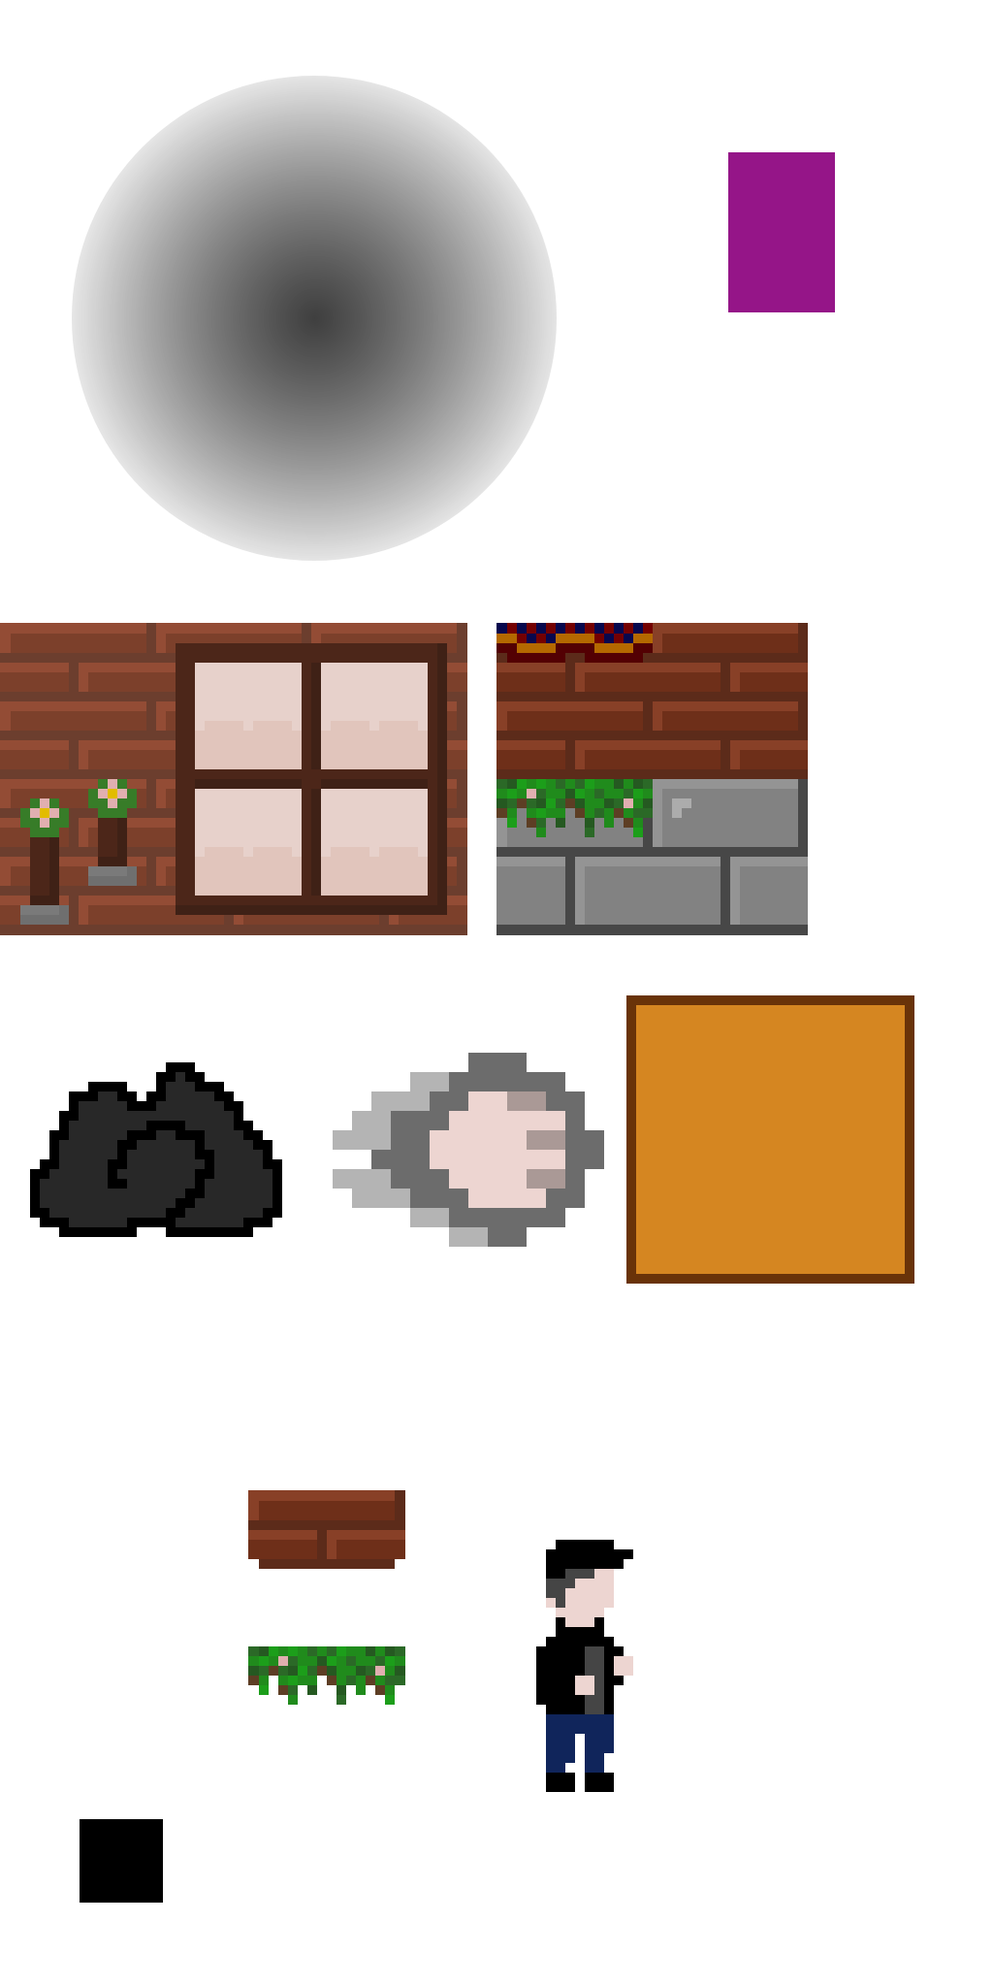
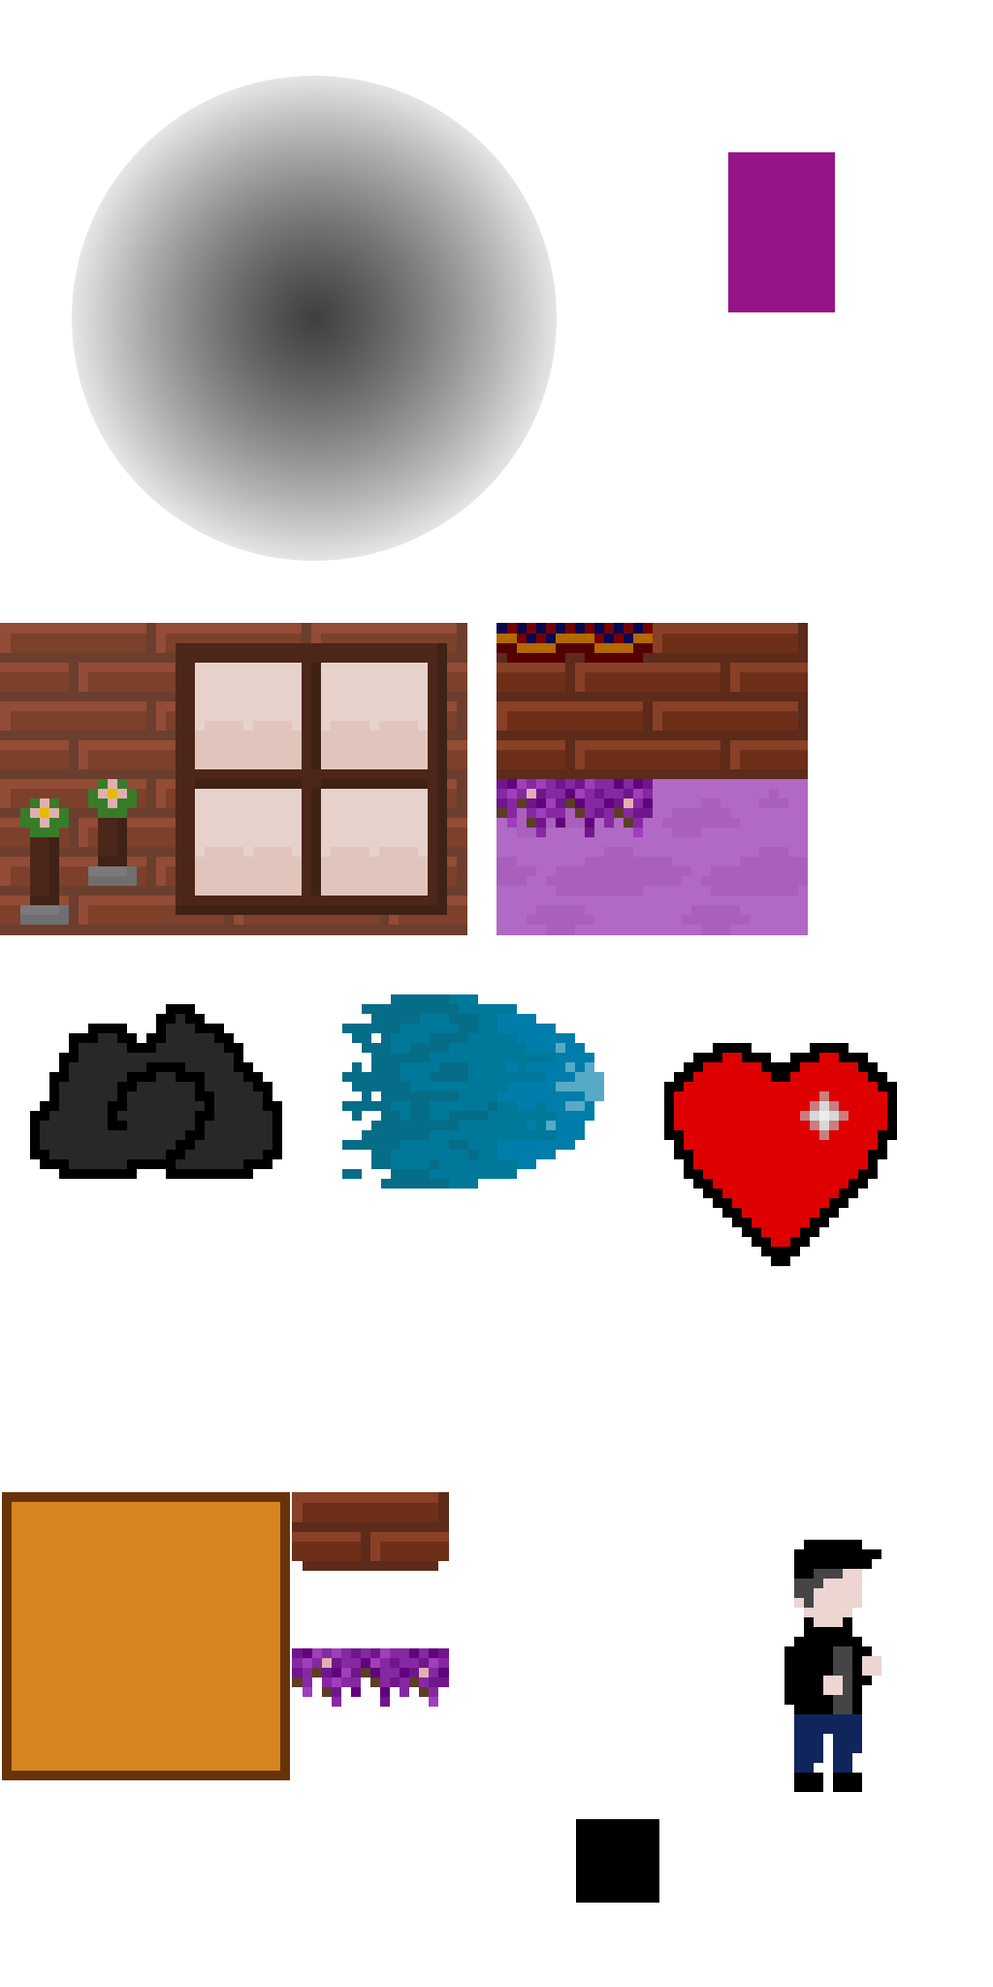
beta

diff --git a/scripts/c3runtime.js b/scripts/c3runtime.js
@@ -4317,6 +4317,42 @@ index);return ret?ret.x:0},TagY(tag,index){const ret=this._GetTagPosition(tag,in
 }
 
 {
+'use strict';{const C3=self.C3;C3.Plugins.TiledBg=class TiledBgPlugin extends C3.SDKPluginBase{constructor(opts){super(opts)}Release(){super.Release()}}}
+{const C3=self.C3;function WrapModeToStr(wrapMode){switch(wrapMode){case 0:return"clamp-to-edge";case 1:return"repeat";case 2:return"mirror-repeat"}return"repeat"}C3.Plugins.TiledBg.Type=class TiledBgType extends C3.SDKTypeBase{constructor(objectClass,exportData){super(objectClass);this._wrapX="repeat";this._wrapY="repeat";if(exportData){this._wrapX=WrapModeToStr(exportData[0]);this._wrapY=WrapModeToStr(exportData[1])}}Release(){super.Release()}OnCreate(){this.GetImageInfo().LoadAsset(this._runtime)}LoadTextures(renderer){return this.GetImageInfo().LoadStaticTexture(renderer,
+{sampling:this._runtime.GetSampling(),wrapX:this._wrapX,wrapY:this._wrapY})}ReleaseTextures(){this.GetImageInfo().ReleaseTexture()}}}
+{const C3=self.C3;const C3X=self.C3X;const INITIALLY_VISIBLE=0;const ORIGIN=1;const IMAGE_OFFSET_X=4;const IMAGE_OFFSET_Y=5;const IMAGE_SCALE_X=6;const IMAGE_SCALE_Y=7;const IMAGE_ANGLE=8;const ENABLE_TILE_RANDOMIZATION=9;const TILE_XRANDOM=10;const TILE_YRANDOM=11;const TILE_ANGLERANDOM=12;const TILE_BLENDMARGINX=13;const TILE_BLENDMARGINY=14;const tempRect=C3.New(C3.Rect);const tempQuad=C3.New(C3.Quad);const rcTex=C3.New(C3.Rect);const qTex=C3.New(C3.Quad);C3.Plugins.TiledBg.Instance=class TiledBgInstance extends C3.SDKWorldInstanceBase{constructor(inst,
+properties){super(inst);this._imageOffsetX=0;this._imageOffsetY=0;this._imageScaleX=1;this._imageScaleY=1;this._imageAngle=0;this._enableTileRandomization=false;this._tileXRandom=0;this._tileYRandom=0;this._tileAngleRandom=0;this._tileBlendMarginX=0;this._tileBlendMarginY=0;this._ownImageInfo=null;if(properties){this.GetWorldInfo().SetVisible(!!properties[INITIALLY_VISIBLE]);this._imageOffsetX=properties[IMAGE_OFFSET_X];this._imageOffsetY=properties[IMAGE_OFFSET_Y];this._imageScaleX=properties[IMAGE_SCALE_X];
+this._imageScaleY=properties[IMAGE_SCALE_Y];this._imageAngle=C3.toRadians(properties[IMAGE_ANGLE]);this._enableTileRandomization=!!properties[ENABLE_TILE_RANDOMIZATION];this._tileXRandom=properties[TILE_XRANDOM];this._tileYRandom=properties[TILE_YRANDOM];this._tileAngleRandom=properties[TILE_ANGLERANDOM];this._tileBlendMarginX=properties[TILE_BLENDMARGINX];this._tileBlendMarginY=properties[TILE_BLENDMARGINY]}}Release(){this._ReleaseOwnImage();super.Release()}_ReleaseOwnImage(){if(this._ownImageInfo){this._ownImageInfo.Release();
+this._ownImageInfo=null}}CalculateTextureCoordsFor3DFace(areaWidth,areaHeight,outQuad){const imageInfo=this.GetCurrentImageInfo();const imageWidth=imageInfo.GetWidth();const imageHeight=imageInfo.GetHeight();const imageOffsetX=this._imageOffsetX/imageWidth;const imageOffsetY=this._imageOffsetY/imageHeight;const imageAngle=this._imageAngle;rcTex.set(0,0,areaWidth/(imageWidth*this._imageScaleX),areaHeight/(imageHeight*this._imageScaleY));rcTex.offset(-imageOffsetX,-imageOffsetY);if(imageAngle===0)outQuad.setFromRect(rcTex);
+else outQuad.setFromRotatedRect(rcTex,-imageAngle)}SetTilingShaderProgram(renderer){if(this._enableTileRandomization){const imageInfo=this.GetCurrentImageInfo();renderer.SetTileRandomizationMode();renderer.SetTileRandomizationInfo(imageInfo.GetWidth()*this._imageScaleX,imageInfo.GetHeight()*this._imageScaleY,this._tileXRandom,this._tileYRandom,this._tileAngleRandom,this._tileBlendMarginX,this._tileBlendMarginY)}else renderer.SetTextureFillMode()}Draw(renderer){const imageInfo=this.GetCurrentImageInfo();
+const texture=imageInfo.GetTexture();if(texture===null)return;this.SetTilingShaderProgram(renderer);renderer.SetTexture(texture);const imageWidth=imageInfo.GetWidth();const imageHeight=imageInfo.GetHeight();const imageOffsetX=this._imageOffsetX/imageWidth;const imageOffsetY=this._imageOffsetY/imageHeight;const wi=this.GetWorldInfo();rcTex.set(0,0,wi.GetWidth()/(imageWidth*this._imageScaleX),wi.GetHeight()/(imageHeight*this._imageScaleY));rcTex.offset(-imageOffsetX,-imageOffsetY);if(wi.HasMesh())this._DrawMesh(wi,
+renderer);else this._DrawStandard(wi,renderer)}_DrawStandard(wi,renderer){let quad=wi.GetBoundingQuad();if(this._runtime.IsPixelRoundingEnabled())quad=wi.PixelRoundQuad(quad);if(this._imageAngle===0)renderer.Quad3(quad,rcTex);else{qTex.setFromRotatedRect(rcTex,-this._imageAngle);renderer.Quad4(quad,qTex)}}_DrawMesh(wi,renderer){const transformedMesh=wi.GetTransformedMesh();if(wi.IsMeshChanged()){wi.CalculateBbox(tempRect,tempQuad,false);let quad=tempQuad;if(this._runtime.IsPixelRoundingEnabled())quad=
+wi.PixelRoundQuad(quad);let texCoords=rcTex;if(this._imageAngle!==0){qTex.setFromRotatedRect(rcTex,-this._imageAngle);texCoords=qTex}transformedMesh.CalculateTransformedMesh(wi.GetSourceMesh(),quad,texCoords);wi.SetMeshChanged(false)}transformedMesh.Draw(renderer)}GetCurrentImageInfo(){return this._ownImageInfo||this._objectClass.GetImageInfo()}IsOriginalSizeKnown(){return true}GetTexture(){return this.GetCurrentImageInfo().GetTexture()}_SetMeshChanged(){this.GetWorldInfo().SetMeshChanged(true)}_SetImageOffsetX(x){if(this._imageOffsetX===
+x)return;this._imageOffsetX=x;this._runtime.UpdateRender();this._SetMeshChanged()}_GetImageOffsetX(){return this._imageOffsetX}_SetImageOffsetY(y){if(this._imageOffsetY===y)return;this._imageOffsetY=y;this._runtime.UpdateRender();this._SetMeshChanged()}_GetImageOffsetY(){return this._imageOffsetY}_SetImageScaleX(x){if(this._imageScaleX===x)return;this._imageScaleX=x;this._runtime.UpdateRender();this._SetMeshChanged()}_GetImageScaleX(){return this._imageScaleX}_SetImageScaleY(y){if(this._imageScaleY===
+y)return;this._imageScaleY=y;this._runtime.UpdateRender();this._SetMeshChanged()}_GetImageScaleY(){return this._imageScaleY}_SetImageAngle(a){if(this._imageAngle===a)return;this._imageAngle=a;this._runtime.UpdateRender();this._SetMeshChanged()}_GetImageAngle(){return this._imageAngle}_SetTileRandomizationEnabled(e){e=!!e;if(this._enableTileRandomization===e)return;this._enableTileRandomization=e;this._runtime.UpdateRender()}_IsTileRandomizationEnabled(){return this._enableTileRandomization}_SetTileXRandom(x){if(this._tileXRandom===
+x)return;this._tileXRandom=x;if(this._IsTileRandomizationEnabled())this._runtime.UpdateRender()}_GetTileXRandom(){return this._tileXRandom}_SetTileYRandom(y){if(this._tileYRandom===y)return;this._tileYRandom=y;if(this._IsTileRandomizationEnabled())this._runtime.UpdateRender()}_GetTileYRandom(){return this._tileYRandom}_SetTileAngleRandom(a){if(this._tileAngleRandom===a)return;this._tileAngleRandom=a;if(this._IsTileRandomizationEnabled())this._runtime.UpdateRender()}_GetTileAngleRandom(){return this._tileAngleRandom}_SetTileBlendMarginX(x){if(this._tileBlendMarginX===
+x)return;this._tileBlendMarginX=x;if(this._IsTileRandomizationEnabled())this._runtime.UpdateRender()}_GetTileBlendMarginX(){return this._tileBlendMarginX}_SetTileBlendMarginY(y){if(this._tileBlendMarginY===y)return;this._tileBlendMarginY=y;if(this._IsTileRandomizationEnabled())this._runtime.UpdateRender()}_GetTileBlendMarginY(){return this._tileBlendMarginY}GetDebuggerProperties(){const propsPrefix="plugins.tiledbg.properties";return[{title:propsPrefix+".image-transform.name",properties:[{name:propsPrefix+
+".image-offset-x.name",value:this._GetImageOffsetX(),onedit:v=>this._SetImageOffsetX(v)},{name:propsPrefix+".image-offset-y.name",value:this._GetImageOffsetY(),onedit:v=>this._SetImageOffsetY(v)},{name:propsPrefix+".image-scale-x.name",value:this._GetImageScaleX()*100,onedit:v=>this._SetImageScaleX(v/100)},{name:propsPrefix+".image-scale-y.name",value:this._GetImageScaleY()*100,onedit:v=>this._SetImageScaleY(v/100)},{name:propsPrefix+".image-angle.name",value:C3.toDegrees(this._GetImageAngle()),onedit:v=>
+this._SetImageAngle(C3.toRadians(v))}]},{title:propsPrefix+".tile-randomization.name",properties:[{name:propsPrefix+".enable-tile-randomization.name",value:this._IsTileRandomizationEnabled(),onedit:v=>this._SetTileRandomizationEnabled(v)},{name:propsPrefix+".x-random.name",value:this._GetTileXRandom()*100,onedit:v=>this._SetTileXRandom(v/100)},{name:propsPrefix+".y-random.name",value:this._GetTileYRandom()*100,onedit:v=>this._SetTileYRandom(v/100)},{name:propsPrefix+".angle-random.name",value:this._GetTileAngleRandom()*
+100,onedit:v=>this._SetTileAngleRandom(v/100)},{name:propsPrefix+".blend-margin-x.name",value:this._GetTileBlendMarginX()*100,onedit:v=>this._SetTileBlendMarginX(v/100)},{name:propsPrefix+".blend-margin-y.name",value:this._GetTileBlendMarginY()*100,onedit:v=>this._SetTileBlendMarginY(v/100)}]}]}GetPropertyValueByIndex(index){switch(index){case IMAGE_OFFSET_X:return this._GetImageOffsetX();case IMAGE_OFFSET_Y:return this._GetImageOffsetY();case IMAGE_SCALE_X:return this._GetImageScaleX();case IMAGE_SCALE_Y:return this._GetImageScaleY();
+case IMAGE_ANGLE:return this._GetImageAngle();case ENABLE_TILE_RANDOMIZATION:return this._IsTileRandomizationEnabled();case TILE_XRANDOM:return this._GetTileXRandom();case TILE_YRANDOM:return this._GetTileYRandom();case TILE_ANGLERANDOM:return this._GetTileAngleRandom();case TILE_BLENDMARGINX:return this._GetTileBlendMarginX();case TILE_BLENDMARGINY:return this._GetTileBlendMarginY()}}SetPropertyValueByIndex(index,value){switch(index){case IMAGE_OFFSET_X:this._SetImageOffsetX(value);break;case IMAGE_OFFSET_Y:this._SetImageOffsetY(value);
+break;case IMAGE_SCALE_X:this._SetImageScaleX(value);break;case IMAGE_SCALE_Y:this._SetImageScaleY(value);break;case IMAGE_ANGLE:this._SetImageAngle(value);break;case ENABLE_TILE_RANDOMIZATION:this._SetTileRandomizationEnabled(!!value);break;case TILE_XRANDOM:this._SetTileXRandom(value);break;case TILE_YRANDOM:this._SetTileYRandom(value);break;case TILE_ANGLERANDOM:this._SetTileAngleRandom(value);break;case TILE_BLENDMARGINX:this._SetTileBlendMarginX(value);break;case TILE_BLENDMARGINY:this._SetTileBlendMarginY(value);
+break}}GetScriptInterfaceClass(){return self.ITiledBackgroundInstance}};const map=new WeakMap;self.ITiledBackgroundInstance=class ITiledBackgroundInstance extends self.IWorldInstance{constructor(){super();map.set(this,self.IInstance._GetInitInst().GetSdkInstance())}set imageOffsetX(x){C3X.RequireFiniteNumber(x);map.get(this)._SetImageOffsetX(x)}get imageOffsetX(){return map.get(this)._GetImageOffsetX()}set imageOffsetY(y){C3X.RequireFiniteNumber(y);map.get(this)._SetImageOffsetY(y)}get imageOffsetY(){return map.get(this)._GetImageOffsetY()}setImageOffset(x,
+y){C3X.RequireFiniteNumber(x);C3X.RequireFiniteNumber(y);const inst=map.get(this);inst._SetImageOffsetX(x);inst._SetImageOffsetY(y)}getImageOffset(){const inst=map.get(this);return[inst._GetImageOffsetX(),inst._GetImageOffsetY()]}set imageScaleX(x){C3X.RequireFiniteNumber(x);map.get(this)._SetImageScaleX(x)}get imageScaleX(){return map.get(this)._GetImageScaleX()}set imageScaleY(y){C3X.RequireFiniteNumber(y);map.get(this)._SetImageScaleY(y)}get imageScaleY(){return map.get(this)._GetImageScaleY()}setImageScale(x,
+y){C3X.RequireFiniteNumber(x);C3X.RequireFiniteNumber(y);const inst=map.get(this);inst._SetImageScaleX(x);inst._SetImageScaleY(y)}getImageScale(){const inst=map.get(this);return[inst._GetImageScaleX(),inst._GetImageScaleY()]}set imageAngle(a){C3X.RequireFiniteNumber(a);map.get(this)._SetImageAngle(a)}get imageAngle(){return map.get(this)._GetImageAngle()}set imageAngleDegrees(a){C3X.RequireFiniteNumber(a);map.get(this)._SetImageAngle(C3.toRadians(a))}get imageAngleDegrees(){return C3.toDegrees(map.get(this)._GetImageAngle())}get imageWidth(){return map.get(this).GetCurrentImageInfo().GetWidth()}get imageHeight(){return map.get(this).GetCurrentImageInfo().GetHeight()}getImageSize(){const imageInfo=
+map.get(this).GetCurrentImageInfo();return[imageInfo.GetWidth(),imageInfo.GetHeight()]}set enableTileRandomization(e){map.get(this)._SetTileRandomizationEnabled(!!e)}get enableTileRandomization(){return map.get(this)._IsTileRandomizationEnabled()}set tileXRandom(x){C3X.RequireFiniteNumber(x);map.get(this)._SetTileXRandom(x)}get tileXRandom(){return map.get(this)._GetTileXRandom()}set tileYRandom(y){C3X.RequireFiniteNumber(y);map.get(this)._SetTileYRandom(y)}get tileYRandom(){return map.get(this)._GetTileYRandom()}setTileRandom(x,
+y){C3X.RequireFiniteNumber(x);C3X.RequireFiniteNumber(y);const inst=map.get(this);inst._SetTileXRandom(x);inst._SetTileYRandom(y)}getTileRandom(){const inst=map.get(this);return[inst._GetTileXRandom(),inst._GetTileYRandom()]}set tileAngleRandom(a){C3X.RequireFiniteNumber(a);map.get(this)._SetTileAngleRandom(a)}get tileAngleRandom(){return map.get(this)._GetTileAngleRandom()}set tileBlendMarginX(x){C3X.RequireFiniteNumber(x);map.get(this)._SetTileBlendMarginX(x)}get tileBlendMarginX(){return map.get(this)._GetTileBlendMarginX()}set tileBlendMarginY(y){C3X.RequireFiniteNumber(y);
+map.get(this)._SetTileBlendMarginY(y)}get tileBlendMarginY(){return map.get(this)._GetTileBlendMarginY()}setTileBlendMargin(x,y){C3X.RequireFiniteNumber(x);C3X.RequireFiniteNumber(y);const inst=map.get(this);inst._SetTileBlendMarginX(x);inst._SetTileBlendMarginY(y)}getTileBlendMargin(){const inst=map.get(this);return[inst._GetTileBlendMarginX(),inst._GetTileBlendMarginY()]}async replaceImage(blob){C3X.RequireInstanceOf(blob,Blob);const sdkInst=map.get(this);const runtime=sdkInst.GetRuntime();const imageInfo=
+C3.New(C3.ImageInfo);imageInfo.LoadDynamicBlobAsset(runtime,blob);await imageInfo.LoadStaticTexture(runtime.GetRenderer(),{sampling:runtime.GetSampling(),wrapX:"repeat",wrapY:"repeat"});if(sdkInst.WasReleased()){imageInfo.Release();return}sdkInst._ReleaseOwnImage();sdkInst._ownImageInfo=imageInfo;runtime.UpdateRender()}}}{const C3=self.C3;C3.Plugins.TiledBg.Cnds={OnURLLoaded(){return true},OnURLFailed(){return true},IsTileRandomizationEnabled(){return this._IsTileRandomizationEnabled()}}}
+{const C3=self.C3;C3.Plugins.TiledBg.Acts={SetImageOffsetX(x){this._SetImageOffsetX(x)},SetImageOffsetY(y){this._SetImageOffsetY(y)},SetImageScaleX(x){this._SetImageScaleX(x/100)},SetImageScaleY(y){this._SetImageScaleY(y/100)},SetImageAngle(a){this._SetImageAngle(C3.toRadians(a))},SetTileRandomizationEnabled(e){this._SetTileRandomizationEnabled(e)},SetTilePosRandom(x,y){this._SetTileXRandom(x/100);this._SetTileYRandom(y/100)},SetTileAngleRandom(a){this._SetTileAngleRandom(a/100)},SetTileBlendMargin(x,
+y){this._SetTileBlendMarginX(x/100);this._SetTileBlendMarginY(y/100)},SetEffect(effect){this.GetWorldInfo().SetBlendMode(effect);this._runtime.UpdateRender()},async LoadURL(url,crossOrigin){if(this._ownImageInfo&&this._ownImageInfo.GetURL()===url)return;const runtime=this._runtime;const imageInfo=C3.New(C3.ImageInfo);try{await imageInfo.LoadDynamicAsset(runtime,url);if(!imageInfo.IsLoaded())throw new Error("image failed to load");if(this.WasReleased()){imageInfo.Release();return null}const texture=
+await imageInfo.LoadStaticTexture(runtime.GetRenderer(),{sampling:runtime.GetSampling(),wrapX:"repeat",wrapY:"repeat"});if(!texture)return}catch(err){console.error("Load image from URL failed: ",err);if(!this.WasReleased())this.Trigger(C3.Plugins.TiledBg.Cnds.OnURLFailed);return}if(this.WasReleased()){imageInfo.Release();return}this._ReleaseOwnImage();this._ownImageInfo=imageInfo;runtime.UpdateRender();await this.TriggerAsync(C3.Plugins.TiledBg.Cnds.OnURLLoaded)}}}
+{const C3=self.C3;C3.Plugins.TiledBg.Exps={ImageWidth(){return this.GetCurrentImageInfo().GetWidth()},ImageHeight(){return this.GetCurrentImageInfo().GetHeight()},ImageOffsetX(){return this._imageOffsetX},ImageOffsetY(){return this._imageOffsetY},ImageScaleX(){return this._imageScaleX*100},ImageScaleY(){return this._imageScaleY*100},ImageAngle(){return C3.toDegrees(this._imageAngle)},TileXRandom(){return this._GetTileXRandom()*100},TileYRandom(){return this._GetTileYRandom()*100},TileAngleRandom(){return this._GetTileAngleRandom()*
+100},TileBlendMarginX(){return this._GetTileBlendMarginX()*100},TileBlendMarginY(){return this._GetTileBlendMarginY()*100}}};
+
+}
+
+{
 'use strict';{const C3=self.C3;C3.Behaviors.solid=class SolidBehavior extends C3.SDKBehaviorBase{constructor(opts){super(opts)}Release(){super.Release()}}}{const C3=self.C3;C3.Behaviors.solid.Type=class SolidType extends C3.SDKBehaviorTypeBase{constructor(behaviorType){super(behaviorType)}Release(){super.Release()}OnCreate(){}}}
 {const C3=self.C3;const C3X=self.C3X;const IBehaviorInstance=self.IBehaviorInstance;const ENABLE=0;const TAGS=1;const EMPTY_SET=new Set;C3.Behaviors.solid.Instance=class SolidInstance extends C3.SDKBehaviorInstanceBase{constructor(behInst,properties){super(behInst);this.SetEnabled(true);if(properties){this.SetEnabled(properties[ENABLE]);this.SetTags(properties[TAGS])}}Release(){super.Release()}SetEnabled(e){this._inst._SetSolidEnabled(!!e)}IsEnabled(){return this._inst._IsSolidEnabled()}SetTags(tagList){const savedDataMap=
 this._inst.GetSavedDataMap();if(!tagList.trim()){savedDataMap.delete("solidTags");return}let solidTags=savedDataMap.get("solidTags");if(!solidTags){solidTags=new Set;savedDataMap.set("solidTags",solidTags)}solidTags.clear();for(const tag of tagList.split(" "))if(tag)solidTags.add(tag.toLowerCase())}GetTags(){return this._inst.GetSavedDataMap().get("solidTags")||EMPTY_SET}_GetTagsString(){return[...this.GetTags()].join(" ")}SaveToJson(){return{"e":this.IsEnabled()}}LoadFromJson(o){this.SetEnabled(o["e"])}GetPropertyValueByIndex(index){switch(index){case ENABLE:return this.IsEnabled()}}SetPropertyValueByIndex(index,
@@ -4546,6 +4582,7 @@ self.C3_GetObjectRefTable = function () {
 		C3.Behaviors.jumpthru,
 		C3.Plugins.NinePatch,
 		C3.Plugins.Text,
+		C3.Plugins.TiledBg,
 		C3.Plugins.System.Cnds.IsGroupActive,
 		C3.Plugins.Sprite.Cnds.OnCreated,
 		C3.Behaviors.MoveTo.Acts.MoveToPosition,
@@ -4554,6 +4591,7 @@ self.C3_GetObjectRefTable = function () {
 		C3.Behaviors.MoveTo.Cnds.OnArrived,
 		C3.Plugins.Sprite.Acts.SetAngle,
 		C3.Behaviors.Turret.Acts.AddTarget,
+		C3.Behaviors.Turret.Acts.SetRateOfFire,
 		C3.Behaviors.Turret.Cnds.OnShoot,
 		C3.Plugins.Sprite.Acts.Spawn,
 		C3.Behaviors.Bullet.Acts.SetSpeed,
@@ -4571,26 +4609,32 @@ self.C3_GetObjectRefTable = function () {
 		C3.Plugins.Mouse.Cnds.OnClick,
 		C3.Plugins.Sprite.Cnds.CompareInstanceVar,
 		C3.Plugins.Sprite.Acts.SetInstanceVar,
+		C3.Plugins.Sprite.Acts.SetAnimFrame,
 		C3.Plugins.System.Exps.min,
 		C3.Plugins.Sprite.Acts.Destroy,
 		C3.Plugins.Sprite.Acts.AddInstanceVar,
+		C3.Plugins.Sprite.Acts.SetVisible,
 		C3.Behaviors.MoveTo.Acts.Stop,
-		C3.Plugins.Sprite.Acts.SetAnimFrame,
 		C3.Plugins.Mouse.Exps.X,
 		C3.Plugins.Mouse.Exps.Y,
-		C3.Plugins.Sprite.Acts.SetVisible,
 		C3.Plugins.Keyboard.Cnds.IsKeyDown,
 		C3.Plugins.Keyboard.Cnds.OnKey,
 		C3.Plugins.Sprite.Acts.SetPos,
 		C3.Plugins.Mouse.Cnds.IsButtonDown,
 		C3.Plugins.System.Cnds.EveryTick,
 		C3.Plugins.Mouse.Cnds.OnRelease,
+		C3.Plugins.Sprite.Acts.StopAnim,
 		C3.Plugins.Sprite.Acts.SetEffectEnabled,
+		C3.Behaviors.Turret.Acts.SetEnabled,
 		C3.Behaviors.Platform.Cnds.IsFalling,
 		C3.Plugins.Sprite.Acts.MoveToLayer,
+		C3.Plugins.TiledBg.Acts.SetSize,
+		C3.Plugins.TiledBg.Exps.Height,
 		C3.Plugins.System.Cnds.CompareVar,
 		C3.Plugins.System.Acts.SetLayerOpacity,
+		C3.Behaviors.Sin.Acts.SetPeriod,
 		C3.Behaviors.scrollto.Acts.Shake,
+		C3.Plugins.Sprite.Cnds.IsVisible,
 		C3.Plugins.System.Acts.SubVar,
 		C3.Plugins.Sprite.Cnds.IsOutsideLayout,
 		C3.Plugins.System.Acts.RestartLayout,
@@ -4618,15 +4662,18 @@ self.C3_JsPropNameTable = [
 	{Cooldown: 0},
 	{Attack: 0},
 	{StunLength: 0},
+	{Movement: 0},
 	{ScrollTo: 0},
 	{Platform: 0},
 	{MoveTo: 0},
 	{Billy: 0},
+	{Damage: 0},
 	{Bullet: 0},
 	{Punch: 0},
 	{Keyboard: 0},
 	{Enemy1: 0},
 	{Mouse: 0},
+	{Stun: 0},
 	{Turret: 0},
 	{Enemy2: 0},
 	{Enemy1Fast: 0},
@@ -4647,6 +4694,9 @@ self.C3_JsPropNameTable = [
 	{Location: 0},
 	{Portal: 0},
 	{Transitions: 0},
+	{HealthBar: 0},
+	{HealthBar2: 0},
+	{Heart: 0},
 	{t: 0}
 ];
 
@@ -4672,7 +4722,10 @@ self.InstanceType = {
 	Background: class extends self.ISpriteInstance {},
 	Camera: class extends self.ISpriteInstance {},
 	Portal: class extends self.ISpriteInstance {},
-	Transitions: class extends self.ISpriteInstance {}
+	Transitions: class extends self.ISpriteInstance {},
+	HealthBar: class extends self.ITiledBackgroundInstance {},
+	HealthBar2: class extends self.ITiledBackgroundInstance {},
+	Heart: class extends self.ISpriteInstance {}
 }
 }
 
@@ -4817,6 +4870,7 @@ self.C3_ExpressionFuncs = [
 			const n0 = p._GetNode(0);
 			return () => (n0.ExpObject() + 20);
 		},
+		() => 5,
 		p => {
 			const f0 = p._GetNode(0).GetBoundMethod();
 			const n1 = p._GetNode(1);
@@ -4825,6 +4879,7 @@ self.C3_ExpressionFuncs = [
 		() => 10000,
 		() => 0.1,
 		() => 3,
+		() => 10,
 		() => 270,
 		p => {
 			const n0 = p._GetNode(0);
@@ -4833,6 +4888,7 @@ self.C3_ExpressionFuncs = [
 		() => 0.2,
 		() => 4,
 		() => 30,
+		() => 20,
 		p => {
 			const n0 = p._GetNode(0);
 			const n1 = p._GetNode(1);
@@ -4854,7 +4910,10 @@ self.C3_ExpressionFuncs = [
 			return () => f0(1, (n1.ExpInstVar() / 60));
 		},
 		() => "Attacks",
-		() => 5,
+		p => {
+			const n0 = p._GetNode(0);
+			return () => n0.ExpInstVar();
+		},
 		p => {
 			const n0 = p._GetNode(0);
 			const n1 = p._GetNode(1);
@@ -4862,6 +4921,7 @@ self.C3_ExpressionFuncs = [
 			return () => (n0.ExpObject() - ((n1.ExpObject() - n2.ExpObject()) * 4));
 		},
 		() => "SetColor",
+		() => 600,
 		p => {
 			const n0 = p._GetNode(0);
 			const n1 = p._GetNode(1);
@@ -4874,12 +4934,16 @@ self.C3_ExpressionFuncs = [
 			const n1 = p._GetNode(1);
 			return () => C3.lerp(n0.ExpObject(), n1.ExpObject(), 0.2);
 		},
+		p => {
+			const v0 = p._GetNode(0).GetVar();
+			return () => (3540 * (v0.GetValue() / 100));
+		},
 		() => 100,
 		() => 80,
 		() => 60,
-		() => 20,
+		() => 8,
 		() => 40,
-		() => 10,
+		() => 6,
 		() => 120,
 		p => {
 			const n0 = p._GetNode(0);
@@ -4901,13 +4965,11 @@ self.C3_ExpressionFuncs = [
 		() => 2060,
 		() => 700,
 		() => 4100,
-		() => 6,
 		() => 6160,
 		() => 7100,
 		() => 7,
 		() => 4240,
 		() => 5500,
-		() => 8,
 		() => 5420,
 		() => 1820,
 		() => 9,
@@ -4929,10 +4991,11 @@ self.C3_ExpressionFuncs = [
 			const v0 = p._GetNode(0).GetVar();
 			return () => v0.GetValue();
 		},
-		p => {
-			const n0 = p._GetNode(0);
-			return () => n0.ExpInstVar();
-		}
+		() => 125,
+		() => 1970,
+		() => 2000,
+		() => 140,
+		() => 2020
 ];
 
 
